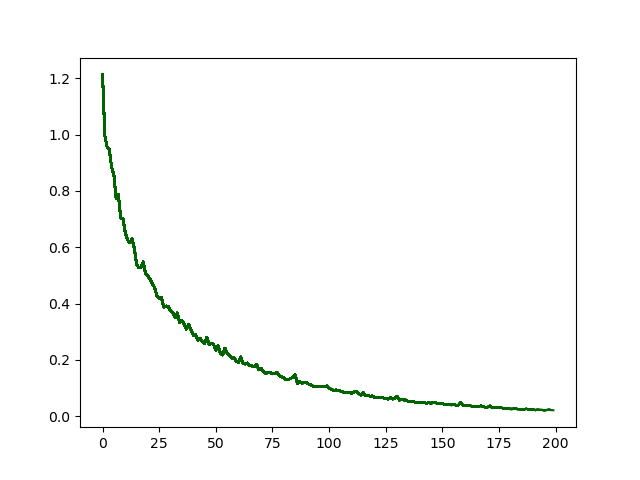
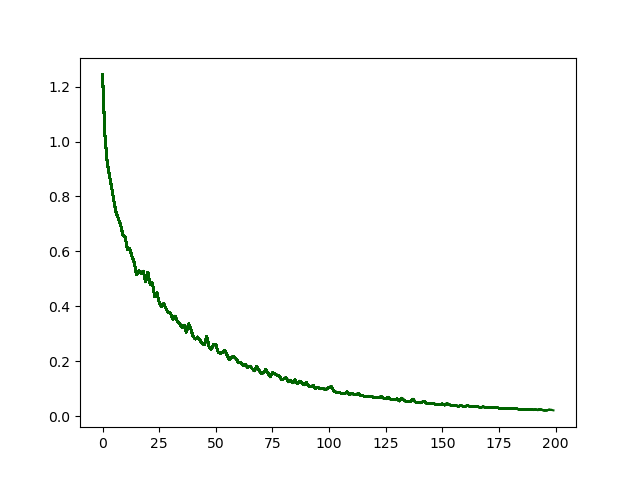
no improvements

diff --git a/brainclip/model/network/brain_CLIP_model.py b/brainclip/model/network/brain_CLIP_model.py
@@ -52,21 +52,21 @@ class ProjectionHead(nn.Module):
         self,
         embedding_dim,
         projection_dim=200,
-        dropout=0.2
+        #dropout=0.1
     ):
         super().__init__()
         self.projection_dim = projection_dim
         self.projection = nn.Linear(embedding_dim, projection_dim)
         self.gelu = nn.GELU()
         self.fc = nn.Linear(projection_dim, projection_dim)
-        self.dropout = nn.Dropout(dropout)
+        #self.dropout = nn.Dropout(dropout)
         self.layer_norm = nn.LayerNorm(projection_dim)
     
     def forward(self, x):
         projected = self.projection(x)
         x = self.gelu(projected)
         x = self.fc(x)
-        x = self.dropout(x)
+        #x = self.dropout(x)
         x = x + projected
         x = self.layer_norm(x)
         return x
@@ -110,7 +110,7 @@ class BrainCLIP(nn.Module):
 
         # Calculating the Loss
         ctrs_loss = self.contrastive_loss(image_embedding, text_embedding)
-        return ctrs_loss #self.combined_loss(cls_loss, ctrs_loss)
+        return ctrs_loss 
 
 
 class BrainCLIPClassifier(nn.Module):

diff --git a/brainclip/model/network/loops.py b/brainclip/model/network/loops.py
@@ -13,7 +13,7 @@ train_loader = BrainCLIPDataLoader("train", batch_size=2)
 image_encoder, text_encoder = ImageEncoder(), TextEncoder()
 model = BrainCLIP(image_encoder, text_encoder).to(device) # infarct, normal, others
 
-learning_rate = 0.001
+learning_rate = 0.00001
 optimizer = Adam(model.parameters(), lr=learning_rate)
 
 num_epochs = 200

diff --git a/brainclip/model/inference/find_match.py b/brainclip/model/inference/find_match.py
@@ -94,6 +94,6 @@ brainclip_model = load_BrainCLIP(device, final_model_path, brainclip_model)
 
 find_matches(brainclip_model, 
              device,
-             query="tumor",
+             query="No significant abnormality is seen in the brain.",
              n=3
              )

diff --git a/brainclip/model/network/classification.py b/brainclip/model/network/classification.py
@@ -18,7 +18,7 @@ train_loader = BrainCLIPDataLoader("train", batch_size=5)
 learning_rate = 0.001
 optimizer = Adam(model.parameters(), lr=learning_rate)
 
-num_epochs = 200
+num_epochs = 50
 train_losses = []
 
 for epoch in range(num_epochs):
